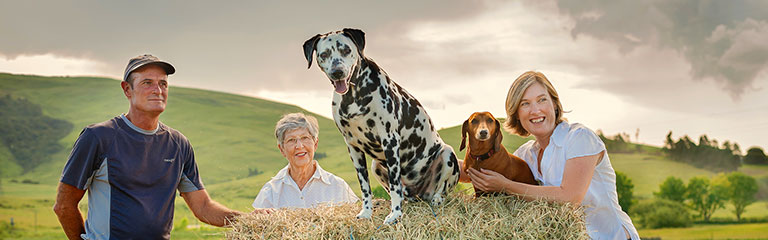
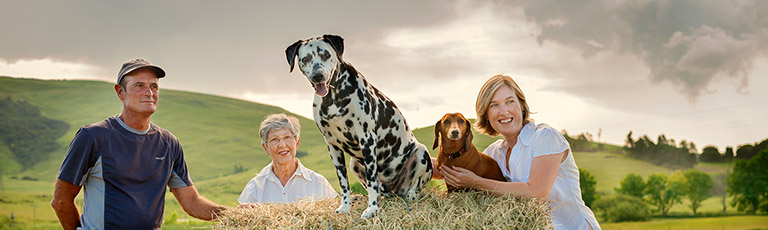
Imagery and content updates for about page.

diff --git a/src/_content/pages/about.md b/src/_content/pages/about.md
@@ -1,6 +1,6 @@
 ---
 layout: "layouts/about.njk"
-title: "About Us"
+title: "About us"
 summary: "Just over an hours drive from the majestic Southern Drakensberg and Sani Pass, is the little village of Boston and the Boston T Party – rustic / backpackers accommodation and functions venue."
 lead: 'Welcome to our little oasis! The Boston T Party is a perfect spot if you need <a href="/accommodation">somewhere to stay</a> or an authentic <a href="/venue-hire">venue to hold your function</a>.'
 bodyClass: "about"

diff --git a/src/_content/pages/venue-hire.md b/src/_content/pages/venue-hire.md
@@ -1,5 +1,5 @@
 ---
-title: "Venue Hire"
+title: "Venue hire"
 summary: "With bag washed walls, an ethnic floor and skylights, the room lends itself to a warm, relaxed and fun atmosphere for informal conferences, office functions and teambuilding, year-end parties, birthday celebrations and farm-style weddings."
 lead: "Our large functions room is just a stones throw away from the dam and shaded by a beautiful Willow tree."
 bodyClass: "venue-hire"

diff --git a/src/_content/banners/banner_about.md b/src/_content/banners/banner_about.md
@@ -17,7 +17,7 @@ image:
     large: "/assets/images/banners/about/feature-about-bg-01--large.jpg"
     x_large: "/assets/images/banners/about/feature-about-bg-01--xlarge.jpg"
     xx_large: "/assets/images/banners/about/feature-about-bg-01--xxlarge.jpg"
-  alt: "Boston T Party main house"
+  alt: "Boston T Party hosts standing in a field"
 
 # This collection `tag` value corresponds with the `for` loop that renders this content
 tags:
